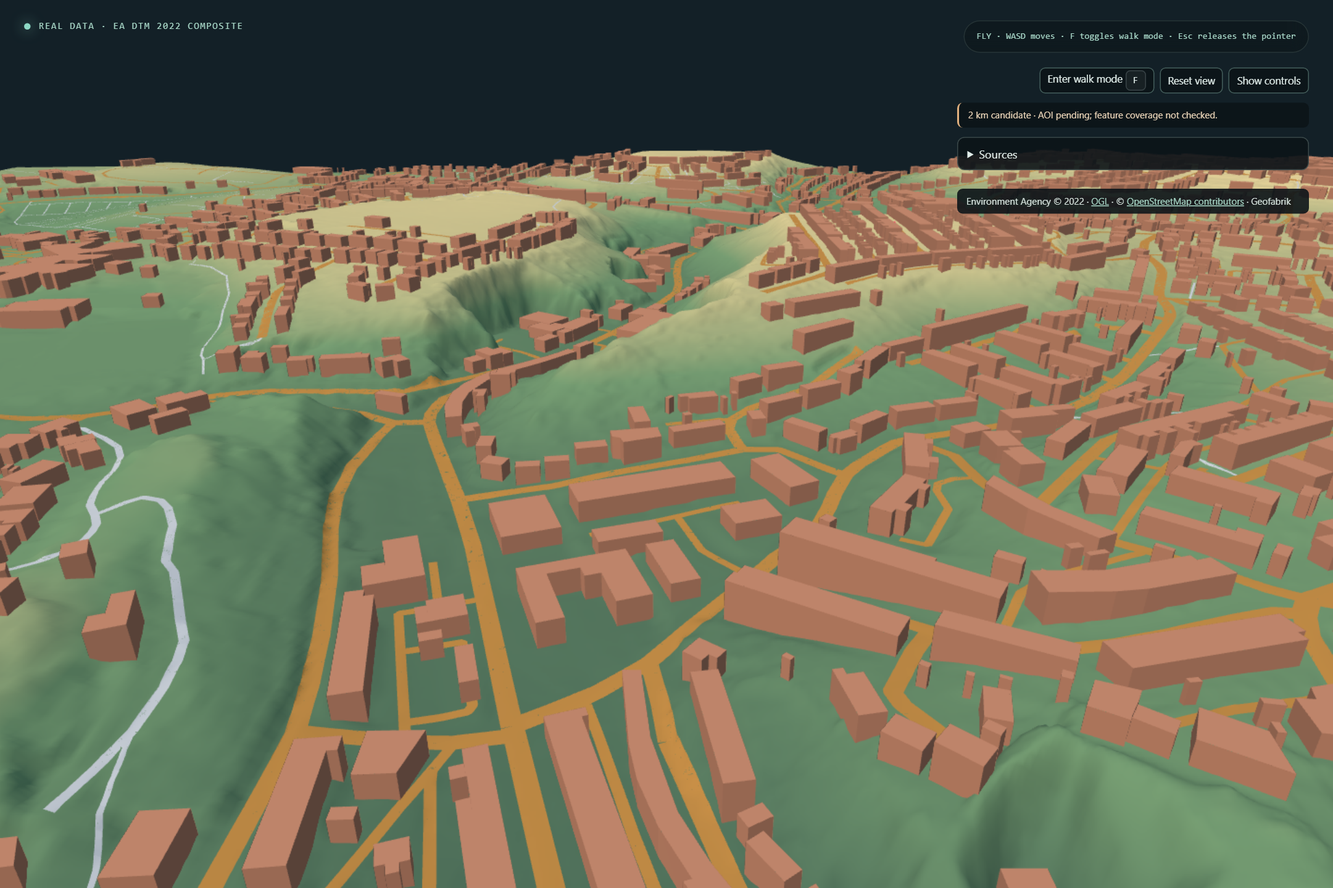
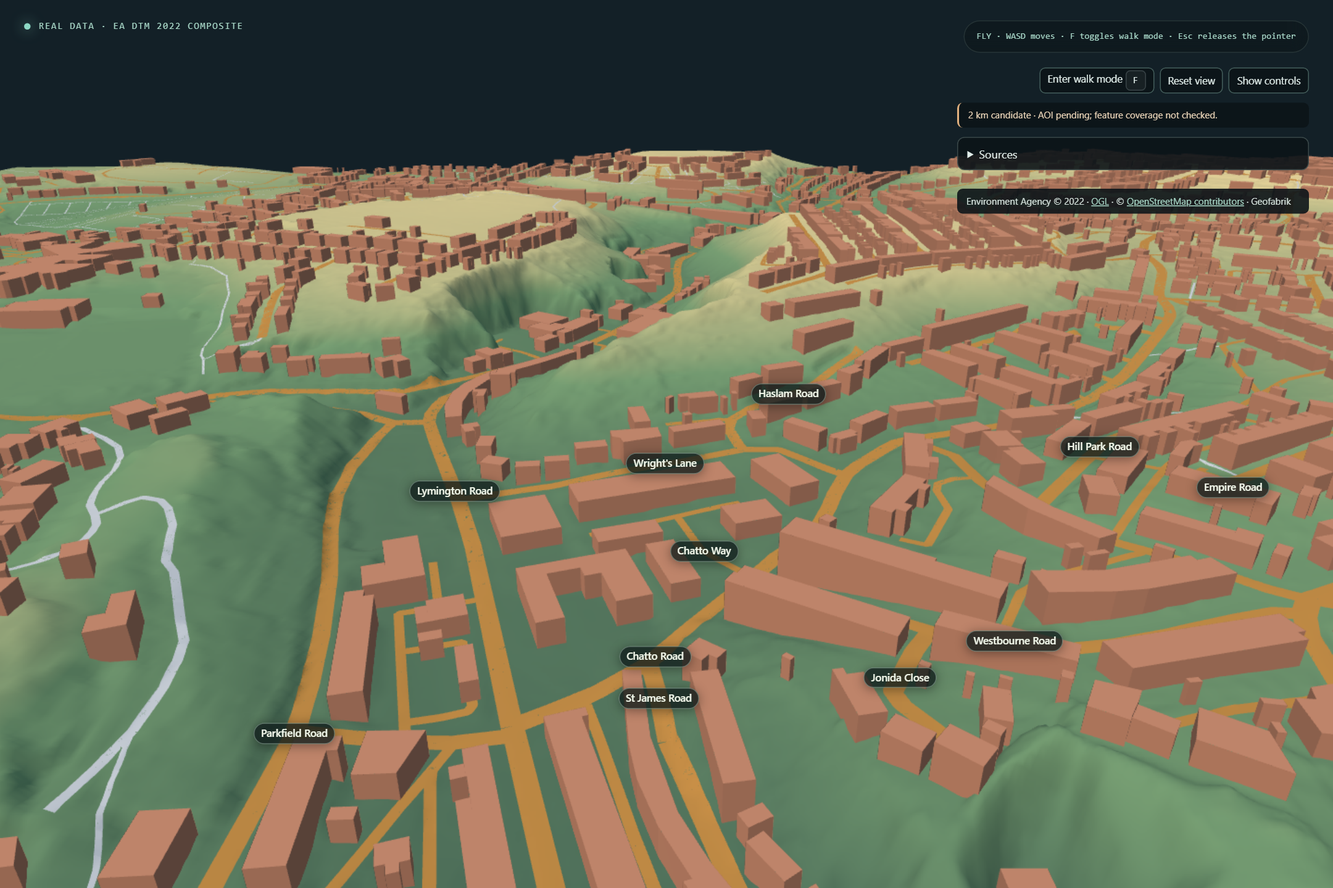
Enable default road names and suppress product QA markers

diff --git a/tests/e2e/viewer-cleanup.spec.ts b/tests/e2e/viewer-cleanup.spec.ts
@@ -1,11 +1,97 @@
 import { expect, test, type Page } from '@playwright/test';
-import { mkdir, writeFile } from 'node:fs/promises';
+import { mkdir, readFile, writeFile } from 'node:fs/promises';
 import { resolve } from 'node:path';
 
 const real = process.env.VIEWER_CLEANUP_PROFILE === 'real';
 const evidenceDir = resolve('docs/milestones/artifacts/Viewer-cleanup');
 const screenshotDir = resolve('docs/milestones/screenshots/Viewer-cleanup');
 const readyPath = '/worlds/torquay-poc-001-2km/ready.json';
+const visibleLabelSelector =
+  '.road-name-label:not(.road-name-measure):not([hidden])';
+
+async function expectedCurrentRoadNames() {
+  const root = resolve('public/worlds/torquay-poc-001-2km');
+  const pointer = JSON.parse(
+    await readFile(resolve(root, 'ready.json'), 'utf8'),
+  ) as { releaseId: string };
+  expect(pointer.releaseId).toMatch(/^[a-f0-9]{64}$/);
+  const roads = JSON.parse(
+    await readFile(
+      resolve(root, 'releases', pointer.releaseId, 'roads/roads.json'),
+      'utf8',
+    ),
+  ) as {
+    features: Array<{
+      source: { osmId: number };
+      sourceTags: { name?: string };
+      centerlinePartsXZ: unknown[];
+    }>;
+  };
+  const names = new Map<string, string>();
+  for (const feature of roads.features) {
+    const name = feature.sourceTags.name?.trim();
+    if (name)
+      feature.centerlinePartsXZ.forEach((_, index) =>
+        names.set(`${feature.source.osmId}:${index}`, name),
+      );
+  }
+  return { releaseId: pointer.releaseId, names };
+}
+
+async function observeLabels(page: Page) {
+  return page.locator(visibleLabelSelector).evaluateAll((elements) =>
+    elements.map((element) => ({
+      name: element.textContent ?? '',
+      key: element.getAttribute('data-road-label-key') ?? '',
+      distanceM: Number(element.getAttribute('data-distance-meters')),
+    })),
+  );
+}
+
+async function assertDefaultLabels(page: Page, expected: Map<string, string>) {
+  await expect
+    .poll(() => page.locator(visibleLabelSelector).count())
+    .toBeGreaterThan(0);
+  const labels = await observeLabels(page);
+  expect(labels.length).toBeLessThanOrEqual(20);
+  expect(new Set(labels.map((label) => label.name)).size).toBe(labels.length);
+  for (const label of labels) {
+    expect(label.name).toBe(expected.get(label.key));
+    expect(label.distanceM).toBeGreaterThanOrEqual(0);
+    expect(label.distanceM).toBeLessThanOrEqual(500);
+  }
+  await expect
+    .poll(() =>
+      page.evaluate((selector) => {
+        const rects = [...document.querySelectorAll(selector)].map((element) =>
+          element.getBoundingClientRect(),
+        );
+        const panel = document
+          .querySelector('.product-controls')!
+          .getBoundingClientRect();
+        const overlaps = (a: DOMRect, b: DOMRect) =>
+          a.left < b.right &&
+          a.right > b.left &&
+          a.top < b.bottom &&
+          a.bottom > b.top;
+        return rects.some(
+          (rect, index) =>
+            overlaps(rect, panel) ||
+            rects.slice(index + 1).some((other) => overlaps(rect, other)),
+        );
+      }, visibleLabelSelector),
+    )
+    .toBe(false);
+  await expect(page.locator('.road-label-overlay')).toHaveCSS(
+    'pointer-events',
+    'none',
+  );
+  await expect(page.locator('.viewer-shell')).toHaveAttribute(
+    'data-road-qa-marker-count',
+    '0',
+  );
+  return labels;
+}
 
 async function ready(page: Page, mode: 'real' | 'synthetic' | 'm0') {
   const shell = page.locator('.viewer-shell');
@@ -14,6 +100,8 @@ async function ready(page: Page, mode: 'real' | 'synthetic' | 'm0') {
   });
   await expect(shell).toHaveAttribute('data-world-mode', mode);
   await expect(shell).toHaveAttribute('data-grid-visible', 'false');
+  if (mode !== 'real')
+    await expect(page.locator(visibleLabelSelector)).toHaveCount(0);
   await expect(page.getByTestId('debug-hud')).toBeHidden();
   for (const id of [
     'world-select-real',
@@ -104,6 +192,7 @@ test('default real map loads all layers, retains navigation, and exposes compact
       failedResponses.push(`${response.status()} ${response.url()}`);
   });
   const started = Date.now();
+  const sourceNames = await expectedCurrentRoadNames();
   await page.goto('/');
   await ready(page, 'real');
   const shell = page.locator('.viewer-shell');
@@ -116,6 +205,7 @@ test('default real map loads all layers, retains navigation, and exposes compact
   });
   await expect(shell).toHaveAttribute('data-building-count', '3613');
   await expect(shell).toHaveAttribute('data-road-way-count', '1044');
+  await assertDefaultLabels(page, sourceNames.names);
   await expect(page.getByTestId('real-package-extent-notice')).toHaveText(
     '2 km candidate · AOI pending; feature coverage not checked.',
   );
@@ -141,6 +231,7 @@ test('default real map loads all layers, retains navigation, and exposes compact
   await expect(
     sources.getByRole('link', { name: 'EA time-stamped products' }),
   ).toBeInViewport();
+  await assertDefaultLabels(page, sourceNames.names);
   await screenshot(page, 'sources');
   await sources.locator('summary').click();
   await screenshot(page, 'default-map');
@@ -150,6 +241,8 @@ test('default real map loads all layers, retains navigation, and exposes compact
   await expect(page.getByTestId('controls-help')).toBeHidden();
   await page.keyboard.press('g');
   await expect(shell).toHaveAttribute('data-grid-visible', 'false');
+  const labelsAtStart = await assertDefaultLabels(page, sourceNames.names);
+  await screenshot(page, 'labels-active-no-marker');
   await screenshot(page, 'active-overview');
   const bearing = await page
     .getByTestId('camera-orientation')
@@ -286,6 +379,12 @@ test('default real map loads all layers, retains navigation, and exposes compact
         pageErrors,
         consoleErrors,
         failedResponses,
+        labelsAtStart,
+        labelSourceRelease: sourceNames.releaseId,
+        sourceNamedPartCount: sourceNames.names.size,
+        roadQaMarkerCount: await shell.getAttribute(
+          'data-road-qa-marker-count',
+        ),
         renderer: await page
           .locator('canvas.viewer-canvas')
           .evaluate((canvas: HTMLCanvasElement) => {
@@ -466,6 +565,9 @@ test('share default needs no real package and synthetic controls remain usable',
         pageErrors: errors,
         unexpectedConsoleErrors,
         unexpectedResponses,
+        visibleRoadNameLabelCount: await page
+          .locator(visibleLabelSelector)
+          .count(),
         observation:
           'Share build auto-fell back after readiness; no GIS runtime assets requested. Synthetic movement/reset/walk passed.',
       },

diff --git a/src/app/createApp.ts b/src/app/createApp.ts
@@ -908,6 +908,8 @@ export function createApp(container: HTMLElement): AppHandle {
     packageData: LoadedRoadPackage,
     selectedId: string,
   ): void => {
+    // Product worlds never display a QA context marker, including after retry.
+    if (selectedRealProfile.profile === 'current_2km') return;
     if (!currentRoadGroup || !currentTerrainGrid) return;
     if (currentRoadMarker) {
       currentRoadGroup.remove(currentRoadMarker);
@@ -1002,6 +1004,7 @@ export function createApp(container: HTMLElement): AppHandle {
         (x, z) => currentTerrainGrid?.sampleHeight(x, z) ?? null,
       );
       roadLabels.setRoadVisible(true);
+      roadLabels.setEnabled(selectedRealProfile.profile === 'current_2km');
       roadVintage.textContent =
         `OSM extract vintage: ${packageData.manifest.source.extractTimestamp} ` +
         `(replication sequence ${packageData.manifest.source.replicationSequence}).`;
@@ -1016,10 +1019,12 @@ export function createApp(container: HTMLElement): AppHandle {
       );
       roadLandmarkSelect.disabled = false;
       updateRoadStatus(packageData, true);
-      showRoadLandmark(
-        packageData,
-        packageData.qa.landmarkContexts[0]?.id ?? '',
-      );
+      if (selectedRealProfile.profile === 'historical_1km') {
+        showRoadLandmark(
+          packageData,
+          packageData.qa.landmarkContexts[0]?.id ?? '',
+        );
+      }
       roadsToggle.disabled = false;
       roadsToggle.setAttribute('aria-pressed', 'true');
       roadsToggle.textContent = 'Hide OSM road ribbons';
@@ -1963,6 +1968,12 @@ export function createApp(container: HTMLElement): AppHandle {
     renderer.render(scene, camera);
     roadLabels.update();
     shell.dataset.drawCalls = String(renderer.info.render.calls);
+    // Observe the actual attached road children for product helper regressions.
+    shell.dataset.roadQaMarkerCount = String(
+      currentRoadGroup?.children.filter(
+        (child) => child.userData['qaContextOnly'] === true,
+      ).length ?? 0,
+    );
     shell.dataset.triangles = String(renderer.info.render.triangles);
     // Keep renderer counters observable to the local benchmark without
     // exposing a mutable production hook or relying on test-only camera state.

diff --git a/src/app/createRoadLabels.ts b/src/app/createRoadLabels.ts
@@ -27,6 +27,7 @@ export interface RoadLabelOverlay {
   ) => void;
   clear: () => void;
   setRoadVisible: (visible: boolean) => void;
+  setEnabled: (enabled: boolean) => void;
   toggle: () => void;
   update: () => void;
   dispose: () => void;
@@ -36,6 +37,7 @@ const LABEL_POOL_SIZE = 20;
 const LABEL_PANEL_SELECTORS = [
   '.viewer-topline',
   '.world-selector',
+  '.product-controls',
   '.debug-hud',
   '.building-controls',
   '.road-controls',
@@ -124,6 +126,7 @@ export function createRoadLabelOverlay({
     for (const label of labelNodes) {
       label.textContent = '';
       delete label.dataset.roadLabelKey;
+      delete label.dataset.distanceMeters;
       label.hidden = true;
     }
     measureNode.textContent = '';
@@ -176,6 +179,12 @@ export function createRoadLabelOverlay({
     renderState();
   };
 
+  const setEnabled = (requested: boolean): void => {
+    enabled =
+      requested && !disposed && roadVisible && stateByCandidate.length > 0;
+    renderState();
+  };
+
   const update = (): void => {
     if (disposed || !enabled || !roadVisible || stateByCandidate.length === 0) {
       return;
@@ -205,7 +214,12 @@ export function createRoadLabelOverlay({
       const element = panelElements[index];
       const rect = panelRects[index];
       if (!element || !rect) continue;
-      if (element.hidden || getComputedStyle(element).display === 'none') {
+      const style = getComputedStyle(element);
+      if (
+        element.hidden ||
+        style.display === 'none' ||
+        style.visibility === 'hidden'
+      ) {
         rect.left = rect.right = rect.top = rect.bottom = 0;
         continue;
       }
@@ -236,6 +250,7 @@ export function createRoadLabelOverlay({
         label.textContent = placement.candidate.name;
       }
       label.dataset.roadLabelKey = placement.candidate.key;
+      label.dataset.distanceMeters = placement.distanceM.toFixed(4);
       label.hidden = false;
       label.style.left = `${placement.screenX}px`;
       label.style.top = `${placement.screenY}px`;
@@ -263,6 +278,7 @@ export function createRoadLabelOverlay({
     setPackage,
     clear,
     setRoadVisible,
+    setEnabled,
     toggle: toggleEnabled,
     update,
     dispose,

diff --git a/docs/milestones/Viewer-cleanup.md b/docs/milestones/Viewer-cleanup.md
@@ -6,7 +6,7 @@
 
 The product entry `/` loads the existing current 2 km terrain/buildings/roads release. The existing current bookmark works, and its layer flags cannot disable product layers. Navigation remains available through Start, mouse look, WASD, vertical fly movement, Shift, fly/walk, Reset, Controls and Escape. Normal/boosted speed remains 15/41.25 m/s; walking retains 1.7 m eye clearance.
 
-World/layer selection, visible telemetry, terrain grid/axes/north helpers, wireframes, road context markers, street-name options and the unavailable overview are absent from the product UI. The grid starts hidden and `G` has no effect. Existing read-only telemetry and loader/controller internals remain in an inaccessible diagnostics subtree, preserving observation without a visible debug mode. No new debug query parameter was added.
+World/layer selection, visible telemetry, terrain grid/axes/north helpers, wireframes, road context markers, street-name toggles and the unavailable overview are absent from the product UI. The grid starts hidden and `G` has no effect. Roads and validated OSM name annotations are on by default in the current 2 km scene. Existing read-only telemetry and loader/controller internals remain in an inaccessible diagnostics subtree, preserving observation without a visible debug mode. No new debug query parameter was added.
 
 The current scene displays **2 km candidate · AOI pending; feature coverage not checked.** EA/OSM attribution and licence links remain visible during navigation. Sources provides publisher links, vintage, Newlyn reference and estimated building-height/road-width limitations. A missing or invalid current package automatically loads clearly labelled fictional synthetic terrain without rewriting the Torquay bookmark; Retry Torquay attempts the real package again. Detailed validation causes remain available as invisible observations. Individual building/road errors retain usable terrain and provide focused retry buttons.
 
@@ -70,3 +70,19 @@ QA records a coordinate operation with 2 m reported accuracy, `best_available=fa
[1 lines of base64/hex data omitted]
 
 Next step: independent Sol review and coordinator acceptance of this focused cleanup. Remaining feature coverage and AOI approval remain outstanding; no subsequent implementation is authorized.
+
+## Default road-name amendment and marker correction
+
+The user clarified that roads and road names should be on by default. The coordinator amended the specification in `b6f1d28`; this correction enables the existing TVW-015 overlay automatically for the current 2 km product, without exposing a toggle. It uses only validated `sourceTags.name`, with the existing 20-label pool, 500 m camera-distance bound, viewport projection, duplicate/collision filtering and terrain-relative anchors. Product controls now participate in panel filtering; the pointer-locked hidden Start card no longer masks labels as a visible obstacle. The overlay retains `pointer-events: none`. Labels remain display annotations, not occlusion-aware surfaces or completeness evidence.
+
+Preliminary independent inspection also found that the initial cleanup still created the automatic road QA context marker after roads loaded. Hiding its selector did not suppress that scene object. The current-product load no longer calls that marker path, and the marker helper rejects current-profile requests. A read-only observation counts actual attached QA marker groups; the current-map E2E requires zero after road loading. Historical internal reproduction remains supported.
+
+Correction verification passed:
+
+- `npm.cmd run typecheck`, `npm.cmd run lint`, `npm.cmd run format:check`, `npm.cmd test` (299 tests), normal production build and `git diff --check` passed.
+- `npm.cmd run test:e2e:cleanup:real` — **5 passed, 1 expected share-only skip**, 5.3 minutes. The default case observed **11 visible names** matching the immutable release's actual `sourceTags.name` and clipped-part identities, drawn from 481 named source parts. Distances were 288.5853–483.3745 m in that viewport, within the unchanged 500 m bound and 20-label cap. Duplicate/collision/product-panel filtering, pointer transparency, actual navigation and **zero attached QA marker groups** passed. The default real case had zero unexpected page, console or HTTP errors.
+- `npm.cmd run test:e2e:cleanup:share` — **3 passed, 3 expected real-only skips**, 20.4 seconds. Synthetic fallback had **0 visible road-name labels**, with no unexpected page/console/HTTP errors and no downstream real GIS requests after readiness. Share output contained only the two synthetic fixtures. Normal production output was rebuilt afterwards.
+
+The fresh [labelled scene without a QA marker](screenshots/Viewer-cleanup/labels-active-no-marker.png) was captured after Start and opened for inspection. It visibly shows source names including Lymington Road, Chatto Road, Haslam Road and Wright's Lane, with no red QA marker or label toggle. The refreshed Sources, active/outer-area and share fallback images remain under this issue's evidence folder; the labelled active and share fallback captures were inspected. Chromium was 156.0.8078.4, at 1440 × 960 CSS pixels and DPR 1.5 before the existing resize check; the recorded renderer remains ANGLE/Vulkan **SwiftShader software rendering**, not hardware performance validation.
+
+The saved initial [149-file preservation snapshot](artifacts/Viewer-cleanup/preservation.json) remains historical and unchanged. A separate [correction comparison](artifacts/Viewer-cleanup/correction-preservation.json) confirms **148 protected files unchanged**, excluding only the coordinator-private checkpoint from the historical comparison because the coordinator changed it between phases. The source/package/config/fixture, installer, recovery-tree and older evidence identities still match. This correction does not edit that checkpoint or the original snapshot. No GIS input, geometry, transform, AOI, resolution, dependency or version change was made. Independent review and coordinator acceptance remain pending.

diff --git a/docs/project-plan.md b/docs/project-plan.md
@@ -5,7 +5,7 @@
 **Status:** M0, M1 and TVW-001 through TVW-015 passed their issue reviews; the M8 overview/minimap issue also passed independent review and was coordinator-accepted on 2026-10-19. The original 1,000 m AOI revision and EA DTM inspection passed; the user-authorized expansion to a 2,000 m pending candidate and separate 2 km DTM/index assessment passed independent review and was coordinator-accepted on 2026-10-20. The user-authorized 2 km terrain/buildings/roads scene also passed independent review and was coordinator-accepted on 2026-10-20; its current route and evidence are in [the 2 km handback](milestones/Torquay-2km-viewer.md). TVW-009 completed building import, height policy and QA, TVW-010 completed optional browser building rendering, TVW-011 completed optional road rendering, TVW-012 completed the independent three-spot map comparison and issue report, TVW-013 completed ground-following walk mode with 1.7 m eye clearance, TVW-014 completed clean-clone synthetic smoke, repeatable local-source regeneration, production browser checks and descriptive benchmark reporting, and TVW-015 completed the optional street-name-label slice of M8. The combined M5 exit gate was accepted by the coordinator after TVW-012's independent review on 2026-10-19; M6 was accepted after TVW-013 fix 1 passed independent review on 2026-10-19; M7 was accepted after TVW-014 fix 1 passed independent review on 2026-10-19; TVW-015 and the M8 overview/minimap issue were accepted after their final independent reviews on 2026-10-19. TVW-016 and later remain unauthorized. Mapped feature counts do not establish completeness; remaining feature checks are outstanding, so the AOI remains pending and is not approved or frozen. TVW-008/M3 is complete as a terrain-only local browser mode.
 **Target platform:** Windows 11 development machine; recent desktop Chrome/Edge; locally served web application
 
-**Current presentation amendment (2026-10-20):** The user authorized the separate [v0.1.0 viewer cleanup](milestones/Viewer-cleanup-spec.md), with Sol implementation. Implementation and verification are complete in [the cleanup handback](milestones/Viewer-cleanup.md); independent review and coordinator acceptance are pending. `/` now selects the existing combined 2 km terrain/buildings/roads package, with clearly labelled automatic synthetic fallback when unavailable. The product retains navigation and Sources while removing world/layer/debug choices. This supersedes the older synthetic-default and visible telemetry/control requirements in this historical plan. Source GIS packages, internal reproduction routes, historical 1 km data, pending statuses and TQ1 4HN center remain preserved. No later issue is authorized.
+**Current presentation amendment (2026-10-20):** The user authorized the separate [v0.1.0 viewer cleanup](milestones/Viewer-cleanup-spec.md), with Sol implementation. Implementation and verification are complete in [the cleanup handback](milestones/Viewer-cleanup.md); independent review and coordinator acceptance are pending. `/` now selects the existing combined 2 km terrain/buildings/roads package, with clearly labelled automatic synthetic fallback when unavailable. The product retains navigation and Sources while removing world/layer/debug choices; roads and bounded source-name labels are on by default without a label toggle or QA marker. This supersedes the older synthetic-default and visible telemetry/control requirements in this historical plan. Source GIS packages, internal reproduction routes, historical 1 km data, pending statuses and TQ1 4HN center remain preserved. No later issue is authorized.
 
 ---
 

diff --git a/AGENTS.md b/AGENTS.md
@@ -1,6 +1,6 @@
 # Project instructions
 
-The user separately authorized **v0.1.0 viewer cleanup** on 2026-10-20 and explicitly requested Sol for implementation. A follow-up instruction requires roads and source-derived street names on by default. Its focused specification is `docs/milestones/Viewer-cleanup-spec.md`; implementation and verification are underway in `docs/milestones/Viewer-cleanup.md`, with independent review and coordinator acceptance still required. The current product entry `/` selects the existing combined 2 km package and truthfully falls back to synthetic when unavailable; world/layer/debug choices are removed from the product UI. Current-package road names use validated OSM tags and remain bounded; the product exposes no label toggle. This supersedes earlier synthetic-default/visible-debug requirements only. Preserve all GIS/source/package bytes, internal fixtures, historical 1 km profile, pending AOI and TQ1 4HN center. TVW-016 and later remain unauthorized.
+The user separately authorized **v0.1.0 viewer cleanup** on 2026-10-20 and explicitly requested Sol for implementation. A follow-up instruction requires roads and source-derived street names on by default. Its focused specification is `docs/milestones/Viewer-cleanup-spec.md`; implementation and verification are underway in `docs/milestones/Viewer-cleanup.md`, with independent review and coordinator acceptance still required. The current product entry `/` selects the existing combined 2 km package and truthfully falls back to synthetic when unavailable; world/layer/debug choices are removed from the product UI. The user requires roads and validated source-name labels on by default, with no label toggle; the current product must not create a road QA landmark marker. Current-package road names use validated OSM tags and remain bounded; the product exposes no label toggle. This supersedes earlier synthetic-default/visible-debug requirements only. Preserve all GIS/source/package bytes, internal fixtures, historical 1 km profile, pending AOI and TQ1 4HN center. TVW-016 and later remain unauthorized.
 
 TVW-004 through TVW-015 are complete and independently reviewed; the M8 street-label and overview/minimap issues are also independently reviewed and coordinator-accepted. M0, M1 and the M3 terrain-only issue are complete. The combined M5 exit gate was accepted by the coordinator after TVW-012's independent review on 2026-10-19; M6 was accepted after TVW-013's fix-1 independent review on 2026-10-19; M7/TVW-014 was accepted after its final independent review on 2026-10-19; the TVW-015 street-label slice and M8 overview/minimap issue were accepted after their final independent reviews on 2026-10-19. The user-authorized 2,000 m AOI revision and elevation-resolution assessment passed independent review and were coordinator-accepted on 2026-10-20. The focused 2 km terrain/buildings/roads browser package also passed independent review and was coordinator-accepted on 2026-10-20; the earlier 1 km browser package remains unchanged as a historical profile. See `docs/milestones/Torquay-2km-viewer.md` and its deterministic-build report. TVW-016 and later remain unauthorized. The current candidate is 2,000 m × 2,000 m in `config/aoi.torquay.json`; `config/aoi.torquay-1km.json` is an explicit historical profile for the unchanged older package. Mapped feature counts do not prove completeness; remaining-feature coverage checks are outstanding. Keep the AOI pending and do not call it approved or frozen. Preserve the TQ1 4HN centroid and the `selected_pending_coverage` / `not_checked` status.
 

diff --git a/README.md b/README.md
@@ -1,6 +1,8 @@
 # Torquay Virtual World
 
-A Windows-friendly local browser viewer of the current 2 km Torquay candidate. Open `/` to load the existing EA terrain, OSM buildings and OSM roads together. The existing bookmark `/?world=torquay-poc-001-2km&buildings=1&roads=1` also works; layer query flags do not disable layers on this current map. The terrain mesh has 1,001 × 1,001 samples at 2 m spacing. The app offers navigation, Controls and Sources; world/layer selectors and visual debug options have been removed.
+A Windows-friendly local browser viewer of the current 2 km Torquay candidate. Open `/` to load the existing EA terrain, OSM buildings, OSM roads and source-derived street names together. The existing bookmark `/?world=torquay-poc-001-2km&buildings=1&roads=1` also works; layer query flags do not disable layers on this current map. The terrain mesh has 1,001 × 1,001 samples at 2 m spacing. The app offers navigation, Controls and Sources; world/layer selectors and visual debug options have been removed.
+
+Road names appear automatically from validated OSM `name` tags, with no label toggle. The existing display limits retain at most 20 labels within 500 m, filtering collisions and UI panels. These annotations are not terrain/building occlusion-aware and do not imply complete road-name coverage. Synthetic fallback displays no real road names. The current map does not show a road QA/debug landmark marker.
 
 On a clean clone or share build, the real package is absent. The app automatically opens fictional synthetic terrain, explains the unavailable package, and offers **Retry Torquay**. Its badge and message identify the fallback as synthetic. Restore the documented local sources and publish the current package using the [2 km package handback](docs/milestones/Torquay-2km-viewer.md), then retry. Invalid packages also fall back with their validation reason; they are never treated as real terrain. A building/road failure retains usable terrain and provides a focused layer retry.
 

diff --git a/docs/milestones/Viewer-cleanup-spec.md b/docs/milestones/Viewer-cleanup-spec.md
@@ -17,6 +17,8 @@ Expected changes: app presentation/route defaults, CSS, focused current E2E prof
 
 Run TypeScript/lint/format/Vitest, production and share builds, current 2 km and share fallback production browser checks, historical/internal regressions, and `git diff --check`. Test product controls for absence from the accessibility tree, not just missing screenshots. Capture new cleanup-specific default, active, outer-area, Sources and fallback images; preserve earlier evidence. Do not touch the user's port 5173, installer, recovery stages or coordinator-private checkpoint. Record executed gates, browser observations, limitations and protected-file identities in the handback, then obtain independent review before coordinator acceptance.
 
+For the default-name correction, `createApp.ts` and `createRoadLabels.ts` may enable the existing validated overlay and mask current product panels. E2E must compare visible names and part identities with the actual immutable-release `sourceTags.name`, retain the 20-label/500 m bounds and collision filtering, observe zero attached QA marker groups in the current scene, and confirm no real-name labels in synthetic fallback. Save a fresh post-Start labelled scene capture. No label toggle or new geographic calculation is authorized.
+
 ## Resolution and alignment context
 
 Existing evidence distinguishes the 1 m EA Composite DTM cells from the current 2 m mesh. Saved time-stamped metadata has 0.5 m footprints over 9.9407% of the AOI, dated 2010; no finer raster was checked. The dated OSM extract is 2026-10-16. Three historical contexts passed qualitative placement comparisons, with no numeric offset measurement. The recorded coordinate operation reports 2 m accuracy and a missing preferred OSTN15 grid. These are limitations, not a road-offset diagnosis or authorization to change data.
